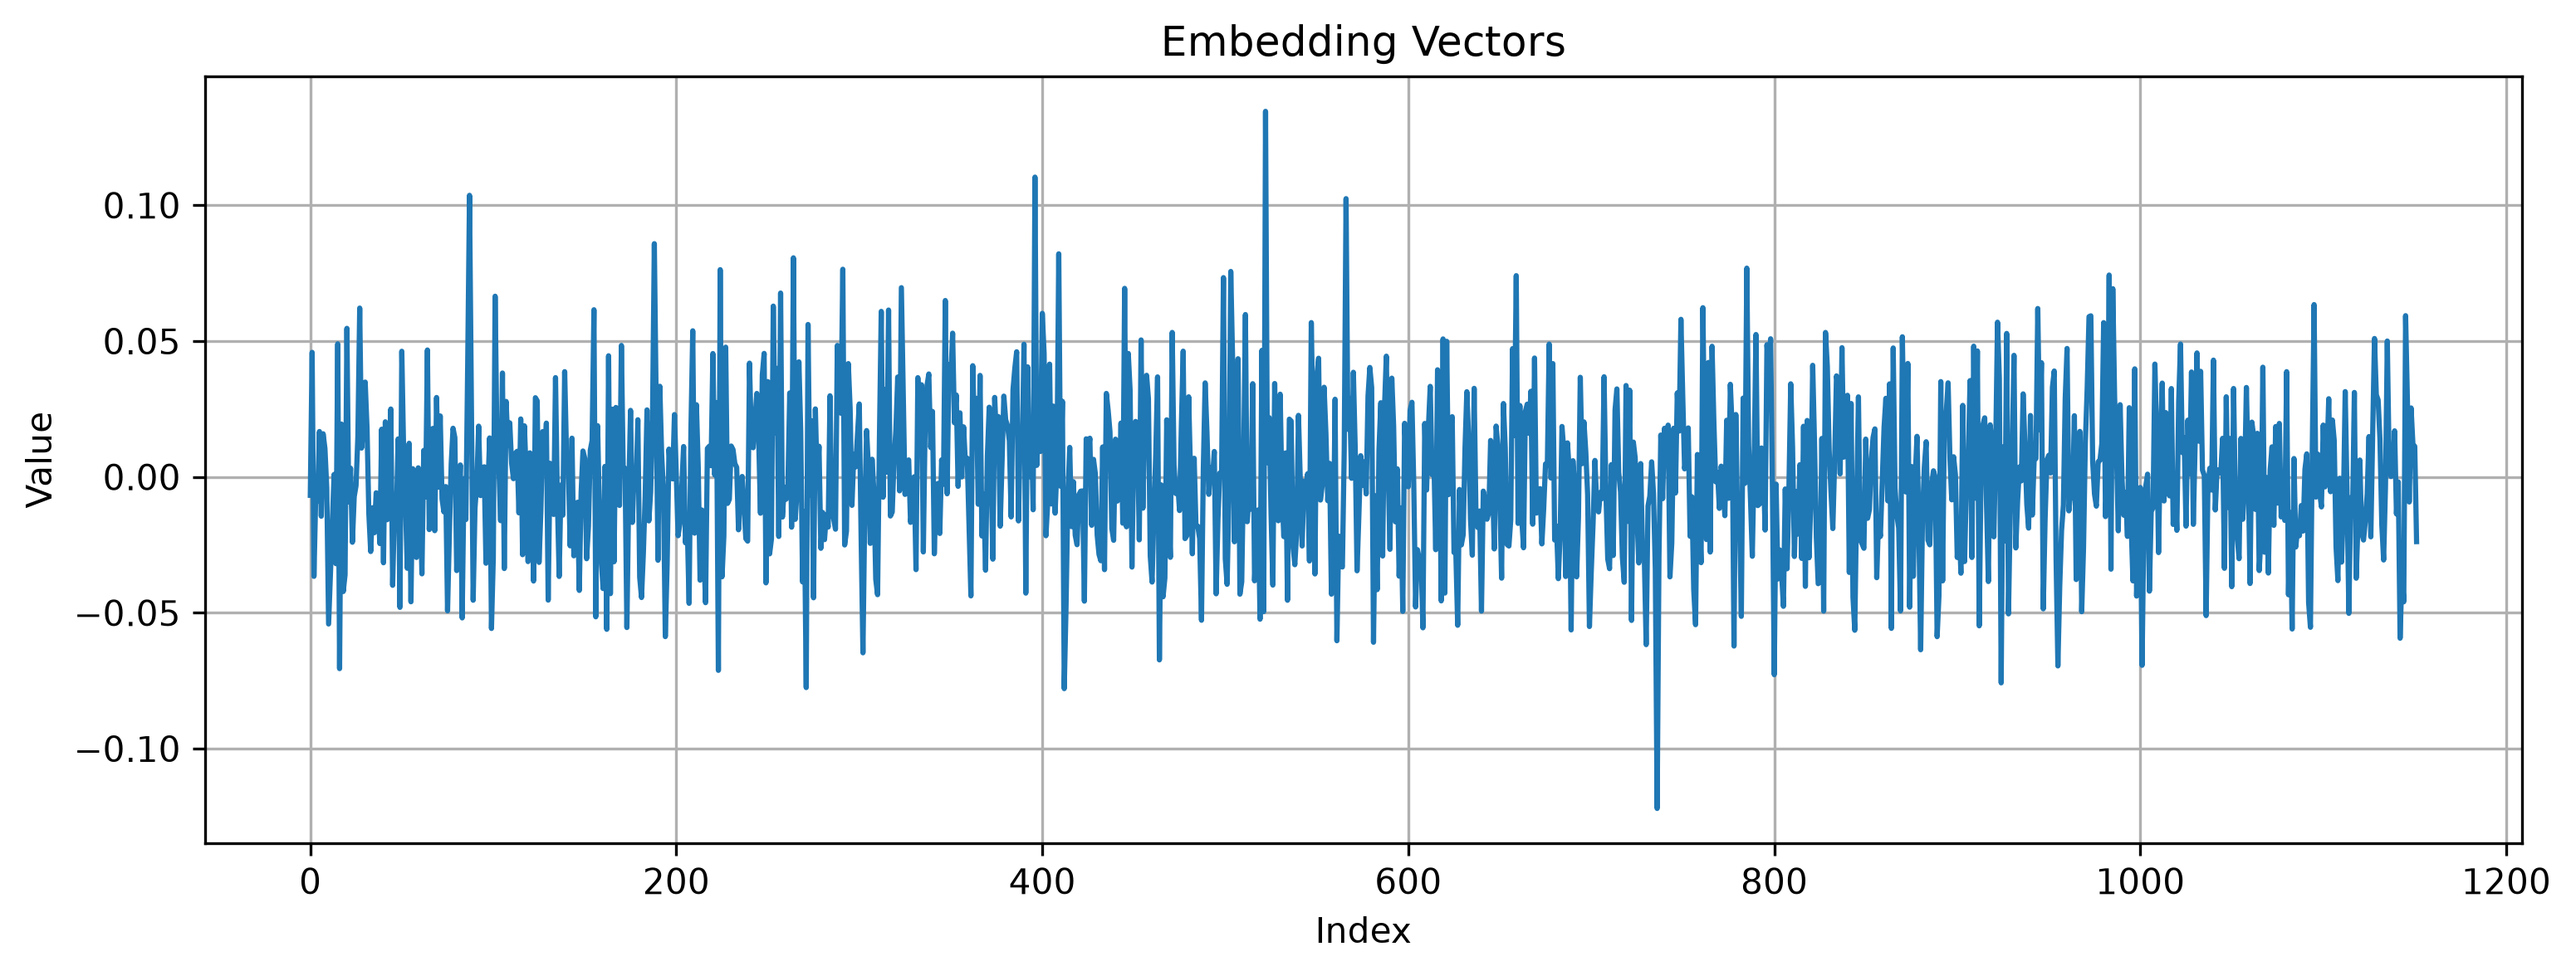
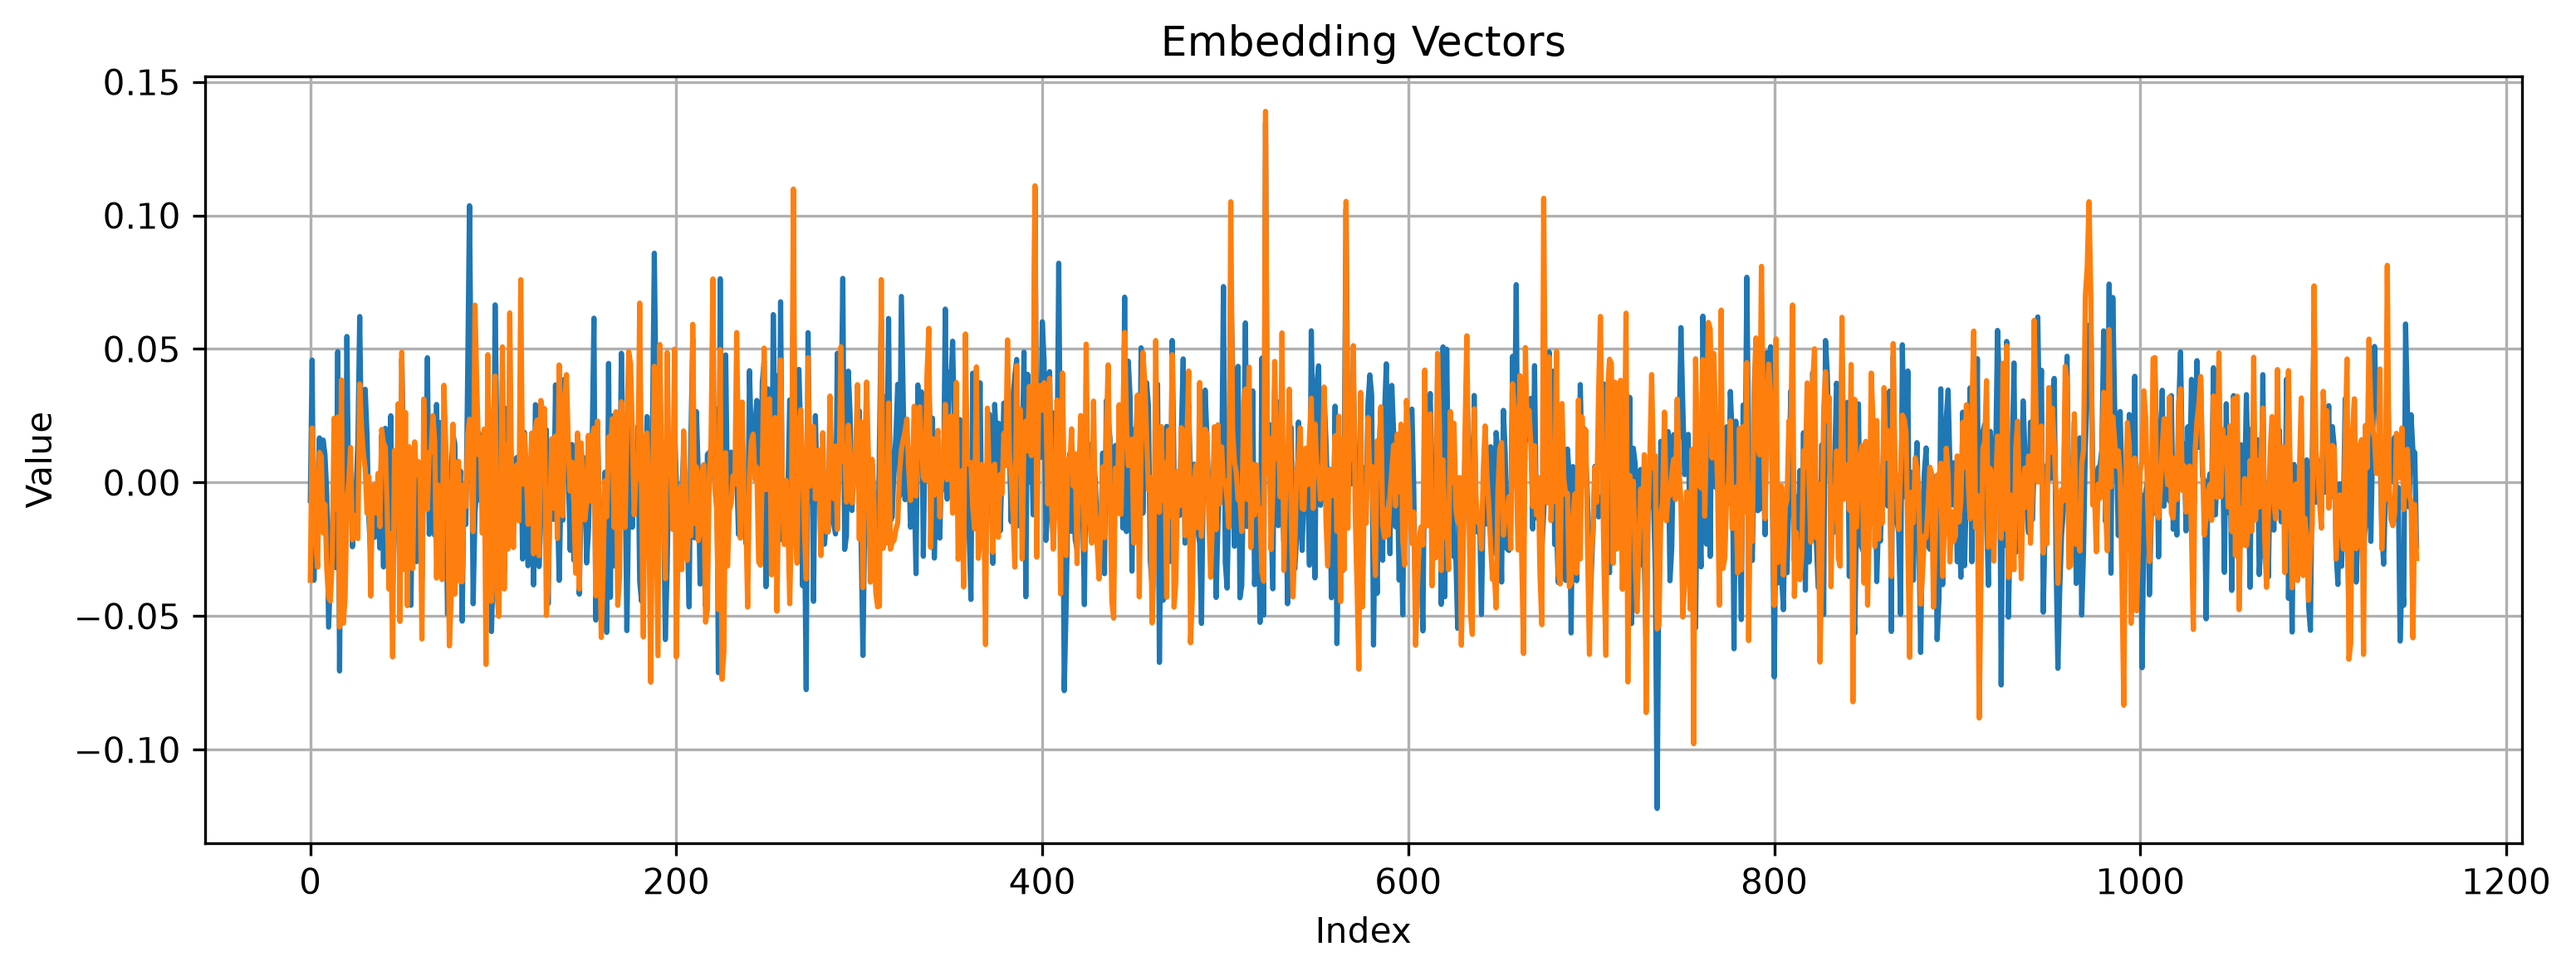
Full script for MedSigLIP embedding extract ready.

diff --git a/eval/MedSigLIP/embedding_extract_mimic.py b/eval/MedSigLIP/embedding_extract_mimic.py
@@ -1,51 +1,239 @@
-# setting up lance stuff
-import lancedb
+import os
+import gzip
+import pandas as pd
+import numpy as np
 import pyarrow as pa
-uri = "../../embeddings/MIMIC-CXR-JPG"
+import lancedb
+import torch
+import torch.nn.functional as F
+from torch.utils.data import Dataset, DataLoader
+from PIL import Image
+from transformers import AutoProcessor, SiglipVisionModel
 
-db = lancedb.connect(uri)
+# ==========================================
+# CONFIGURATION & PATHS
+# ==========================================
+DATA_DIR = "../../data/MIMIC-CXR-JPG/2.1.0"  # Change to your symlink target
+METADATA_DIR = "../../data/MIMIC-CXR-JPG/2.1.0"                 # Directory containing your csv.gz files
+URI = "../../embeddings/MIMIC-CXR-JPG"
+BATCH_SIZE = 256                                     # Optimized for A6000 48GB VRAM
+NUM_WORKERS = 8                                      # Multi-process data loading
+INPUT_DIMENSION = (448, 448)
 
-schema = pa.schema(
-    [
-        pa.field("path", pa.string()),
-        pa.field("dicom_id", pa.string()),
-        pa.field("PerformedProcedureStepDescription", pa.string()),
-        pa.field("ViewPosition", pa.string()),
-        pa.field("image_size", pa.struct([pa.field("Rows", pa.uint16()), pa.field("Columns", pa.uint16())])),
-        pa.field("StudyDate", pa.string()),
-        pa.field("StudyTime", pa.string()),
-        pa.field("ProcedureCodeSequence_CodeMeaning", pa.string()),
-        pa.field("ViewCodeSequence_CodeMeaning", pa.string()),
-        pa.field("PatientOrientationCodeSequence_CodeMeaning", pa.string()),
-        pa.field("study_id", pa.uint16()),
-        pa.field("subject_id", pa.uint16()),
-        pa.field("split", pa.string()),
-        pa.field(
-            "CheXpert_labels", 
-            pa.struct(
-                [
-                    pa.field("Atelectasis", pa.int8()),
-                    pa.field("Cardiomegaly", pa.int8()),
-                    pa.field("Consolidation", pa.int8()),
-                    pa.field("Edema", pa.int8()),
-                    pa.field("Enlarged_Cardiomediastinum", pa.int8()),
-                    pa.field("Fracture", pa.int8()),
-                    pa.field("Lung_Lesion", pa.int8()),
-                    pa.field("Lung_Opacity", pa.int8()),
-                    pa.field("Pleural_Effusion", pa.int8()),
-                    pa.field("Pneumonia", pa.int8()),
-                    pa.field("Pneumothorax", pa.int8()),
-                    pa.field("Pleural_Other", pa.int8()),
-                    pa.field("Support_Devices", pa.int8()),
-                    pa.field("No_Finding", pa.int8()),
-                ]
-            ),
-        ),
-        pa.field("embedding_raw", pa.list_(pa.float32(), 1152)),
-        pa.field("embedding_l2", pa.list_(pa.float32(), 1152)),
-    ]
+DEVICE = torch.device("cuda" if torch.cuda.is_available() else "cpu")
+print(f"Using device: {DEVICE}")
+
+# =========================================
+# Set up logger
+# =========================================
+import logging
+
+# Configure logging to write to a file
+logging.basicConfig(
+    filename="mimic_processing_errors.log",
+    level=logging.ERROR,
+    format="%(asctime)s - %(levelname)s - %(message)s"
 )
+
+# ==========================================
+# 1. LOAD AND MERGE METADATA
+# ==========================================
+print("Loading and indexing metadata files...")
+
+# Read IMAGE_FILENAMES.txt
+with open(os.path.join(METADATA_DIR, "IMAGE_FILENAMES.txt"), "r") as f:
+    paths = [line.strip() for line in f if line.strip()]
+df_paths = pd.DataFrame({"path": paths})
+# Extract dicom_id from the filename stem
+df_paths["dicom_id"] = df_paths["path"].apply(lambda x: os.path.splitext(os.path.basename(x))[0])
+
+# Read metadata CSVs
+df_meta = pd.read_csv(os.path.join(METADATA_DIR, "mimic-cxr-2.0.0-metadata.csv.gz"))
+df_split = pd.read_csv(os.path.join(METADATA_DIR, "mimic-cxr-2.0.0-split.csv.gz"))
+df_chexpert = pd.read_csv(os.path.join(METADATA_DIR, "mimic-cxr-2.0.0-chexpert.csv.gz"))
+
+# Clean up CheXpert column names to match your schema's underscores
+df_chexpert.columns = [col.replace(" ", "_") for col in df_chexpert.columns]
+
+# Stepwise merge to preserve all paths
+# 1. Merge metadata
+df_master = df_paths.merge(df_meta, on="dicom_id", how="left")
+
+# 2. Merge ONLY the split column to avoid duplicating subject_id and study_id
+df_master = df_master.merge(df_split[["dicom_id", "split"]], on="dicom_id", how="left")
+
+# 3. Merge CheXpert labels
+df_master = df_master.merge(df_chexpert, on=["subject_id", "study_id"], how="left")
+
+# Force numeric columns to be numbers; turn garbage data into NaNs, then fill with 0
+df_master["Rows"] = pd.to_numeric(df_master["Rows"], errors="coerce").fillna(0).astype(np.uint16)
+df_master["Columns"] = pd.to_numeric(df_master["Columns"], errors="coerce").fillna(0).astype(np.uint16)
+df_master["study_id"] = pd.to_numeric(df_master["study_id"], errors="coerce").fillna(0).astype(np.uint32)
+df_master["subject_id"] = pd.to_numeric(df_master["subject_id"], errors="coerce").fillna(0).astype(np.uint32)
+
+label_cols = [
+    "Atelectasis", "Cardiomegaly", "Consolidation", "Edema", "Enlarged_Cardiomediastinum",
+    "Fracture", "Lung_Lesion", "Lung_Opacity", "Pleural_Effusion", "Pneumonia",
+    "Pneumothorax", "Pleural_Other", "Support_Devices", "No_Finding"
+]
+
+# Do the same for all labels
+for col in label_cols:
+    df_master[col] = pd.to_numeric(df_master[col], errors="coerce").fillna(-2).astype(np.int8)
+
+print(f"Total records to process: {len(df_master)}")
+
+# ==========================================
+# 2. PYTORCH DATASET DESIGN
+# ==========================================
+class MimicCxrDataset(Dataset):
+    def __init__(self, dataframe, base_dir):
+        self.df = dataframe
+        self.base_dir = base_dir
+
+    def __len__(self):
+        return len(self.df)
+
+    def __getitem__(self, idx):
+        row = self.df.iloc[idx]
+        img_path = os.path.join(self.base_dir, row["path"])
+        
+        try:
+            with Image.open(img_path) as img:
+                img = img.convert("RGB").resize(INPUT_DIMENSION, Image.Resampling.BILINEAR)
+                img_array = np.array(img)
+            return img_array, idx, True  # True = Success
+            
+        except Exception as e:
+            # Log the exact file and the error reason
+            logging.error(f"Failed to load image at index {idx} | Path: {img_path} | Error: {str(e)}")
+            
+            # Return a dummy array and False so the main loop knows to handle it
+            dummy_array = np.zeros((INPUT_DIMENSION[0], INPUT_DIMENSION[1], 3), dtype=np.uint8)
+            return dummy_array, idx, False  # False = Corrupted/Missing
+
+dataset = MimicCxrDataset(df_master, DATA_DIR)
+dataloader = DataLoader(
+    dataset, 
+    batch_size=BATCH_SIZE, 
+    shuffle=False, 
+    num_workers=NUM_WORKERS, 
+    pin_memory=True
+)
+
+# ==========================================
+# 3. LANCEDB SETTING
+# ==========================================
+db = lancedb.connect(URI)
+
+schema = pa.schema([
+    pa.field("path", pa.string()),
+    pa.field("dicom_id", pa.string()),
+    pa.field("PerformedProcedureStepDescription", pa.string()),
+    pa.field("ViewPosition", pa.string()),
+    pa.field("image_size", pa.struct([pa.field("Rows", pa.uint16()), pa.field("Columns", pa.uint16())])),
+    pa.field("StudyDate", pa.string()),
+    pa.field("StudyTime", pa.string()),
+    pa.field("ProcedureCodeSequence_CodeMeaning", pa.string()),
+    pa.field("ViewCodeSequence_CodeMeaning", pa.string()),
+    pa.field("PatientOrientationCodeSequence_CodeMeaning", pa.string()),
+    pa.field("study_id", pa.uint32()),   # Upgraded to uint32 to handle 8-digit IDs
+    pa.field("subject_id", pa.uint32()), # Upgraded to uint32 to handle 8-digit IDs
+    pa.field("split", pa.string()),
+    pa.field("CheXpert_labels", pa.struct([pa.field(col, pa.int8()) for col in label_cols])),
+    pa.field("embedding_raw", pa.list_(pa.float32(), 1152)),
+    pa.field("embedding_l2", pa.list_(pa.float32(), 1152)),
+])
 
 table = db.create_table("MedSigLIP_embeddings_MIMIC-CXR-JPG", schema=schema, mode="overwrite")
 
-print(table.schema)
+# ==========================================
+# 4. INITIALIZE MODEL
+# ==========================================
+print("Loading MedSigLIP model...")
+model = SiglipVisionModel.from_pretrained("google/medsiglip-448").to(DEVICE)
+processor = AutoProcessor.from_pretrained("google/medsiglip-448")
+model.eval()
+
+# ==========================================
+# 5. BATCH INFERENCE & DATABASE POPULATION
+# ==========================================
+print("Starting inference pipeline...")
+
+# We accumulate records in chunks before writing to LanceDB for maximum I/O performance
+buffer_records = []
+WRITE_BUFFER_SIZE = 5000 
+
+with torch.no_grad():
+    for imgs_batch, indices, success_flags in dataloader:
+        
+        # Convert tensors to numpy/lists for easier handling
+        indices = indices.numpy()
+        success_flags = success_flags.numpy()
+        
+        # Track embeddings for this entire batch (including potential Nones)
+        raw_embeddings_batch = [None] * len(indices)
+        l2_embeddings_batch = [None] * len(indices)
+        
+        # Filter out only the valid images to send to the A6000
+        valid_indices_in_batch = [i for i, success in enumerate(success_flags) if success]
+        
+        if valid_indices_in_batch:
+            # Extract only valid images for the GPU
+            valid_imgs = [Image.fromarray(imgs_batch[i].numpy()) for i in valid_indices_in_batch]
+            
+            inputs = processor(images=valid_imgs, padding="max_length", return_tensors="pt").to(DEVICE)
+            outputs = model(**inputs)
+            
+            raw_outs = outputs["pooler_output"]
+            l2_outs = F.normalize(raw_outs, p=2, dim=-1)
+            
+            # Move back to CPU and map them back to their correct batch positions
+            raw_outs = raw_outs.cpu().numpy()
+            l2_outs = l2_outs.cpu().numpy()
+            
+            for exact_gpu_idx, original_batch_idx in enumerate(valid_indices_in_batch):
+                raw_embeddings_batch[original_batch_idx] = raw_outs[exact_gpu_idx].tolist()
+                l2_embeddings_batch[original_batch_idx] = l2_outs[exact_gpu_idx].tolist()
+
+        # Build records for LanceDB
+        for idx_in_batch, global_idx in enumerate(indices):
+            row = df_master.iloc[global_idx]
+            
+            record = {
+                "path": str(row["path"]),
+                "dicom_id": str(row["dicom_id"]),
+                "PerformedProcedureStepDescription": str(row["PerformedProcedureStepDescription"]) if pd.notna(row["PerformedProcedureStepDescription"]) else None,
+                "ViewPosition": str(row["ViewPosition"]) if pd.notna(row["ViewPosition"]) else None,
+                "image_size": {"Rows": int(row["Rows"]), "Columns": int(row["Columns"])},
+                "StudyDate": str(row["StudyDate"]) if pd.notna(row["StudyDate"]) else None,
+                "StudyTime": str(row["StudyTime"]) if pd.notna(row["StudyTime"]) else None,
+                "ProcedureCodeSequence_CodeMeaning": str(row["ProcedureCodeSequence_CodeMeaning"]) if pd.notna(row["ProcedureCodeSequence_CodeMeaning"]) else None,
+                "ViewCodeSequence_CodeMeaning": str(row["ViewCodeSequence_CodeMeaning"]) if pd.notna(row["ViewCodeSequence_CodeMeaning"]) else None,
+                "PatientOrientationCodeSequence_CodeMeaning": str(row["PatientOrientationCodeSequence_CodeMeaning"]) if pd.notna(row["PatientOrientationCodeSequence_CodeMeaning"]) else None,
+                "study_id": int(row["study_id"]),
+                "subject_id": int(row["subject_id"]),
+                "split": str(row["split"]) if pd.notna(row["split"]) else None,
+                "CheXpert_labels": {col: int(row[col]) for col in label_cols},
+                # Will be a list of floats if successful, or None if the file was corrupt
+                "embedding_raw": raw_embeddings_batch[idx_in_batch],
+                "embedding_l2": l2_embeddings_batch[idx_in_batch],
+            }
+            buffer_records.append(record)
+            
+        # Write to LanceDB in chunks
+        if len(buffer_records) >= WRITE_BUFFER_SIZE:
+            try:
+                table.add(buffer_records)
+                print(f"Indexed up to row {global_idx + 1}/{len(df_master)}")
+            except Exception as e:
+                # If PyArrow rejects the batch due to a schema error, log it and keep going!
+                logging.error(f"CRITICAL: Failed to insert batch ending at row {global_idx}. Error: {str(e)}")
+            finally:
+                # Clear the buffer regardless of success or failure to avoid infinite loops
+                buffer_records = []
+# Append any remaining records
+if buffer_records:
+    table.add(buffer_records)
+
+print(f"Finished pipeline! Table total rows: {len(table)}")
